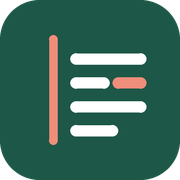
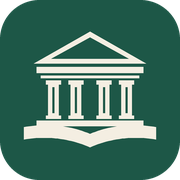
Marchio Pronao: tempio su libro aperto

Changed region(s): [[0.1111, 0.1667, 0.8889, 0.8333]]

diff --git a/src/components/brand-mark.ts b/src/components/brand-mark.ts
@@ -1,0 +1,179 @@
+// Generato dalla geometria del simbolo (public/brand/pronao-simbolo.svg). Non modificare a mano.
+export type MarkShape =
+  | { t: "p"; d: string; c: "fg" | "bg" }
+  | { t: "r"; x: number; y: number; w: number; h: number; c: "fg" | "bg" };
+
+export const MARK_SHAPES: MarkShape[] = [
+  {
+    "t": "p",
+    "d": "12.00,22.60 32.00,11.20 52.00,22.60",
+    "c": "fg"
+  },
+  {
+    "t": "p",
+    "d": "18.20,20.90 32.00,13.30 45.80,20.90",
+    "c": "bg"
+  },
+  {
+    "t": "r",
+    "x": 13,
+    "y": 23.8,
+    "w": 38,
+    "h": 2.2,
+    "c": "fg"
+  },
+  {
+    "t": "r",
+    "x": 14.5,
+    "y": 26.9,
+    "w": 35,
+    "h": 0.9,
+    "c": "fg"
+  },
+  {
+    "t": "r",
+    "x": 16.3,
+    "y": 28.6,
+    "w": 5.4,
+    "h": 1.5,
+    "c": "fg"
+  },
+  {
+    "t": "r",
+    "x": 17.1,
+    "y": 30.1,
+    "w": 3.8,
+    "h": 11.0,
+    "c": "fg"
+  },
+  {
+    "t": "r",
+    "x": 18.65,
+    "y": 31.0,
+    "w": 0.7,
+    "h": 9.2,
+    "c": "bg"
+  },
+  {
+    "t": "r",
+    "x": 16.3,
+    "y": 41.1,
+    "w": 5.4,
+    "h": 1.2,
+    "c": "fg"
+  },
+  {
+    "t": "r",
+    "x": 24.3,
+    "y": 28.6,
+    "w": 5.4,
+    "h": 1.5,
+    "c": "fg"
+  },
+  {
+    "t": "r",
+    "x": 25.1,
+    "y": 30.1,
+    "w": 3.8,
+    "h": 11.0,
+    "c": "fg"
+  },
+  {
+    "t": "r",
+    "x": 26.65,
+    "y": 31.0,
+    "w": 0.7,
+    "h": 9.2,
+    "c": "bg"
+  },
+  {
+    "t": "r",
+    "x": 24.3,
+    "y": 41.1,
+    "w": 5.4,
+    "h": 1.2,
+    "c": "fg"
+  },
+  {
+    "t": "r",
+    "x": 34.3,
+    "y": 28.6,
+    "w": 5.4,
+    "h": 1.5,
+    "c": "fg"
+  },
+  {
+    "t": "r",
+    "x": 35.1,
+    "y": 30.1,
+    "w": 3.8,
+    "h": 11.0,
+    "c": "fg"
+  },
+  {
+    "t": "r",
+    "x": 36.65,
+    "y": 31.0,
+    "w": 0.7,
+    "h": 9.2,
+    "c": "bg"
+  },
+  {
+    "t": "r",
+    "x": 34.3,
+    "y": 41.1,
+    "w": 5.4,
+    "h": 1.2,
+    "c": "fg"
+  },
+  {
+    "t": "r",
+    "x": 42.3,
+    "y": 28.6,
+    "w": 5.4,
+    "h": 1.5,
+    "c": "fg"
+  },
+  {
+    "t": "r",
+    "x": 43.1,
+    "y": 30.1,
+    "w": 3.8,
+    "h": 11.0,
+    "c": "fg"
+  },
+  {
+    "t": "r",
+    "x": 44.65,
+    "y": 31.0,
+    "w": 0.7,
+    "h": 9.2,
+    "c": "bg"
+  },
+  {
+    "t": "r",
+    "x": 42.3,
+    "y": 41.1,
+    "w": 5.4,
+    "h": 1.2,
+    "c": "fg"
+  },
+  {
+    "t": "r",
+    "x": 13,
+    "y": 42.9,
+    "w": 38,
+    "h": 2.0,
+    "c": "fg"
+  },
+  {
+    "t": "p",
+    "d": "32.00,47.60 31.08,47.23 30.16,46.88 29.23,46.56 28.29,46.26 27.35,45.98 26.41,45.73 25.46,45.50 24.50,45.29 23.54,45.11 22.57,44.95 21.60,44.81 20.62,44.70 19.64,44.61 18.66,44.55 17.66,44.51 16.67,44.49 15.66,44.50 14.66,44.53 13.64,44.58 12.62,44.66 11.60,44.76 10.57,44.88 9.54,45.03 8.50,45.20 8.50,49.60 9.54,49.45 10.57,49.31 11.60,49.21 12.63,49.12 13.64,49.06 14.66,49.02 15.66,49.01 16.67,49.02 17.66,49.06 18.66,49.11 19.64,49.20 20.62,49.30 21.60,49.43 22.57,49.58 23.54,49.76 24.50,49.96 25.46,50.18 26.41,50.42 27.35,50.70 28.29,50.99 29.23,51.31 30.16,51.65 31.08,52.01 32.00,52.40",
+    "c": "fg"
+  },
+  {
+    "t": "p",
+    "d": "32.00,47.60 32.92,47.23 33.84,46.88 34.77,46.56 35.71,46.26 36.65,45.98 37.59,45.73 38.54,45.50 39.50,45.29 40.46,45.11 41.43,44.95 42.40,44.81 43.38,44.70 44.36,44.61 45.34,44.55 46.34,44.51 47.33,44.49 48.34,44.50 49.34,44.53 50.36,44.58 51.38,44.66 52.40,44.76 53.43,44.88 54.46,45.03 55.50,45.20 55.50,49.60 54.46,49.45 53.43,49.31 52.40,49.21 51.38,49.12 50.36,49.06 49.34,49.02 48.34,49.01 47.33,49.02 46.34,49.06 45.34,49.11 44.36,49.20 43.38,49.30 42.40,49.43 41.43,49.58 40.46,49.76 39.50,49.96 38.54,50.18 37.59,50.42 36.65,50.70 35.71,50.99 34.77,51.31 33.84,51.65 32.92,52.01 32.00,52.40",
+    "c": "fg"
+  }
+];

diff --git a/src/components/Logo.tsx b/src/components/Logo.tsx
@@ -1,21 +1,24 @@
 import Link from "next/link";
 import { SITE } from "@/content/site";
+import { MARK_SHAPES } from "./brand-mark";
 
-/** Simbolo: un foglio con il margine e una correzione in rosso. Stesso disegno di /public/brand/margine-simbolo.svg */
-export function LogoMark({ className = "size-9", inverted = false }: { className?: string; inverted?: boolean }) {
+const GREEN = "#1d5747";
+const IVORY = "#f4eee2";
+
+/** Simbolo: un tempio che poggia su un libro aperto. Stesso disegno di /public/brand/pronao-simbolo.svg */
+export function LogoMark({ className = "size-10", inverted = false }: { className?: string; inverted?: boolean }) {
+  const bg = inverted ? IVORY : GREEN;
+  const fg = inverted ? GREEN : IVORY;
   return (
     <svg viewBox="0 0 64 64" className={`${className} shrink-0`} aria-hidden>
-      <rect width="64" height="64" rx="14" fill={inverted ? "#ffffff" : "#1d5747"} />
-      <g fill="none" strokeLinecap="round">
-        <path d="M19 14v36" stroke={inverted ? "#a3301d" : "#ef8e7a"} strokeWidth="3" />
-        <g stroke={inverted ? "#1d5747" : "#ffffff"} strokeWidth="4">
-          <path d="M27 21h23" />
-          <path d="M27 29.5h10" />
-          <path d="M27 38h23" />
-          <path d="M27 46.5h13" />
-        </g>
-        <path d="M42 29.5h8" stroke={inverted ? "#a3301d" : "#ef8e7a"} strokeWidth="4" />
-      </g>
+      <rect width="64" height="64" rx="14" fill={bg} />
+      {MARK_SHAPES.map((s, i) =>
+        s.t === "p" ? (
+          <polygon key={i} points={s.d} fill={s.c === "fg" ? fg : bg} />
+        ) : (
+          <rect key={i} x={s.x} y={s.y} width={s.w} height={s.h} fill={s.c === "fg" ? fg : bg} />
+        ),
+      )}
     </svg>
   );
 }
@@ -30,14 +33,15 @@ export function Logo({
   inverted?: boolean;
 }) {
   return (
-    <Link href={href} className="group inline-flex items-center gap-2.5" aria-label={SITE.name}>
+    <Link href={href} className="group inline-flex items-center gap-3" aria-label={SITE.name}>
       <LogoMark inverted={inverted} />
       {!compact && (
         <span className="flex flex-col leading-none">
-          <span className={`font-serif text-[22px] font-medium tracking-[-0.01em] ${inverted ? "text-white" : "text-ink"}`}>
+          {/* maiuscole spaziate come nelle iscrizioni romane */}
+          <span className={`font-serif text-[20px] font-medium uppercase tracking-[0.16em] ${inverted ? "text-white" : "text-ink"}`}>
             {SITE.brand}
           </span>
-          <span className={`mt-0.5 hidden text-[11px] sm:block ${inverted ? "text-white/70" : "text-mute"}`}>
+          <span className={`mt-1 hidden text-[11px] sm:block ${inverted ? "text-white/70" : "text-mute"}`}>
             {SITE.tagline}
           </span>
         </span>

diff --git a/src/lib/calendar.ts b/src/lib/calendar.ts
@@ -47,7 +47,7 @@ export function icsFile(
   const lines = [
     "BEGIN:VCALENDAR",
     "VERSION:2.0",
-    "PRODID:-//Margine Scuola Forense//Lezioni//IT",
+    "PRODID:-//Pronao Scuola Forense//Lezioni//IT",
     "CALSCALE:GREGORIAN",
     "METHOD:PUBLISH",
     `X-WR-CALNAME:${esc(opts.calName)}`,
@@ -58,7 +58,7 @@ export function icsFile(
     const url = opts.pageUrl(l.id);
     lines.push(
       "BEGIN:VEVENT",
-      `UID:${l.id}@margine-scuola-forense`,
+      `UID:${l.id}@pronao-scuola-forense`,
       `DTSTAMP:${stamp(new Date())}`,
       `DTSTART:${stamp(new Date(l.scheduled_at))}`,
       `DTEND:${stamp(endOf(l))}`,

diff --git a/src/content/site.ts b/src/content/site.ts
@@ -5,11 +5,11 @@
  */
 export const SITE = {
   /** Marchio: corto, è quello che compare nel logo */
-  brand: "Margine",
+  brand: "Pronao",
   /** Sottotitolo sotto il marchio */
   tagline: "Scuola di Alta Formazione Forense",
-  name: "Margine, Scuola di Alta Formazione Forense",
-  shortName: "Margine",
+  name: "Pronao, Scuola di Alta Formazione Forense",
+  shortName: "Pronao",
   description:
     "Preparazione all'esame di avvocato con lezioni brevi, tracce settimanali e correzione personalizzata di ogni elaborato.",
   email: "segreteria@esempio.it",

diff --git a/src/lib/stripe.ts b/src/lib/stripe.ts
@@ -9,7 +9,7 @@ let stripe: Stripe | undefined;
 export function getStripe() {
   if (!stripe) {
     stripe = new Stripe(process.env.STRIPE_SECRET_KEY!, {
-      appInfo: { name: "Margine, Scuola di Alta Formazione Forense" },
+      appInfo: { name: "Pronao, Scuola di Alta Formazione Forense" },
     });
   }
   return stripe;

diff --git a/public/brand/genera-simbolo.py b/public/brand/genera-simbolo.py
@@ -1,0 +1,61 @@
+"""Simbolo Pronao (viewBox 64x64): un tempio che poggia su un libro aperto.
+Genera SVG e PNG dalla stessa geometria."""
+from PIL import Image, ImageDraw
+import sys
+
+GREEN = "#1d5747"
+IVORY = "#f4eee2"
+
+def qbez(p0, p1, p2, n=24):
+    return [((1-t)**2*p0[0]+2*(1-t)*t*p1[0]+t*t*p2[0], (1-t)**2*p0[1]+2*(1-t)*t*p1[1]+t*t*p2[1]) for t in [i/n for i in range(n+1)]]
+
+def page(sign):
+    # sign = -1 pagina sinistra, +1 destra; costola al centro x=32
+    m = lambda p: (32 + sign*(32-p[0]) * -1 if False else 32 + sign*abs(32-p[0]), p[1])
+    top = qbez((32.0,47.6),(21.0,43.0),(8.5,45.2))
+    bot = qbez((8.5,49.6),(21.0,47.6),(32.0,52.4))
+    pts = top + bot
+    return [(32 + sign*(32-x) if sign>0 else x, y) for x,y in pts] if sign>0 else pts
+
+def shapes():
+    fg, bg = IVORY, GREEN
+    s = []
+    # frontone a linea: triangolo pieno e triangolo interno del colore di fondo
+    s.append(("poly", [(12,22.6),(32,11.2),(52,22.6)], fg))
+    s.append(("poly", [(18.2,20.9),(32,13.3),(45.8,20.9)], bg))
+    s.append(("rect", (13,23.8,38,2.2), fg))                    # architrave
+    s.append(("rect", (14.5,26.9,35,0.9), fg))                  # fregio sottile
+    centers = [19, 27, 37, 45]
+    for c in centers:
+        s.append(("rect", (c-2.7,28.6,5.4,1.5), fg))            # capitello
+        s.append(("rect", (c-1.9,30.1,3.8,11.0), fg))           # fusto
+        s.append(("rect", (c-0.35,31.0,0.7,9.2), bg))           # scanalatura
+        s.append(("rect", (c-2.7,41.1,5.4,1.2), fg))            # base
+    s.append(("rect", (13,42.9,38,2.0), fg))                    # stilobate
+    s.append(("poly", page(-1), fg))                            # libro aperto
+    s.append(("poly", page(+1), fg))
+    return s
+
+def svg():
+    out = ['<svg xmlns="http://www.w3.org/2000/svg" viewBox="0 0 64 64" role="img" aria-label="Pronao">',
+           f'  <rect width="64" height="64" rx="14" fill="{GREEN}"/>']
+    for kind, g, col in shapes():
+        if kind == "poly": out.append(f'  <polygon points="{" ".join(f"{x:.2f},{y:.2f}" for x,y in g)}" fill="{col}"/>')
+        else: out.append(f'  <rect x="{g[0]:g}" y="{g[1]:g}" width="{g[2]:g}" height="{g[3]:g}" fill="{col}"/>')
+    out.append("</svg>")
+    return "\n".join(out) + "\n"
+
+def png(size, path):
+    S = 6; W = size*S; k = W/64
+    im = Image.new("RGBA", (W,W), (0,0,0,0)); d = ImageDraw.Draw(im)
+    d.rounded_rectangle([0,0,W-1,W-1], radius=14*k, fill=GREEN)
+    for kind, g, col in shapes():
+        if kind == "poly": d.polygon([(x*k,y*k) for x,y in g], fill=col)
+        else: d.rectangle([g[0]*k, g[1]*k, (g[0]+g[2])*k, (g[1]+g[3])*k], fill=col)
+    im.resize((size,size), Image.LANCZOS).save(path)
+
+if __name__ == "__main__":
+    B = sys.argv[1]
+    open(f"{B}/pronao-simbolo.svg","w").write(svg())
+    for n in (512, 120): png(n, f"{B}/pronao-simbolo-{n}.png")
+    png(180, sys.argv[2])
